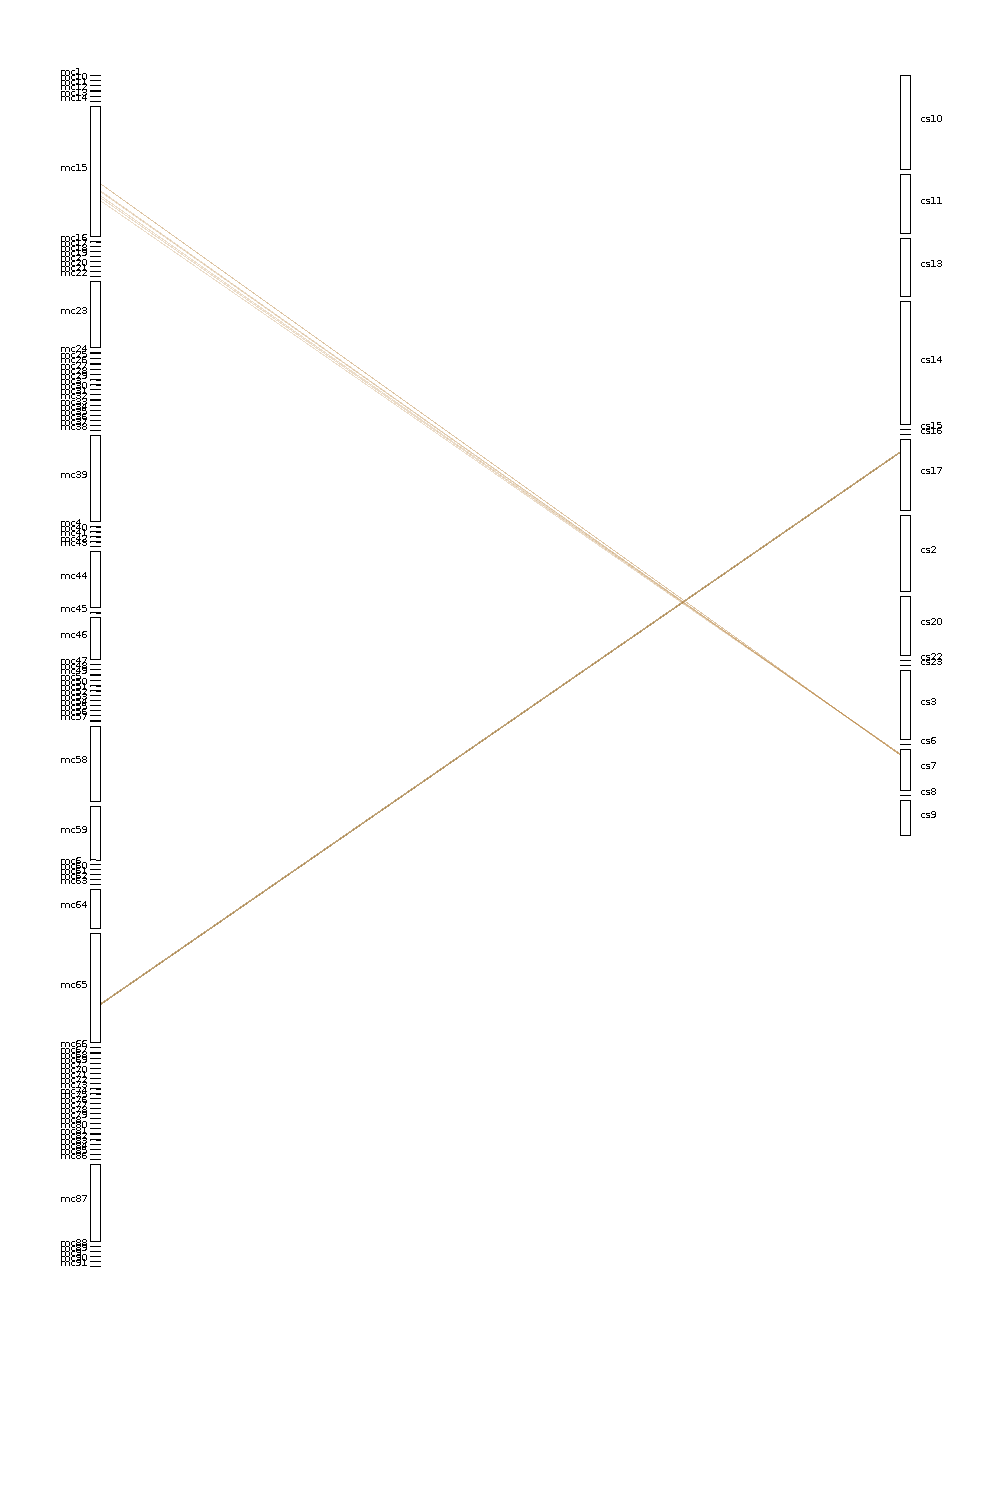
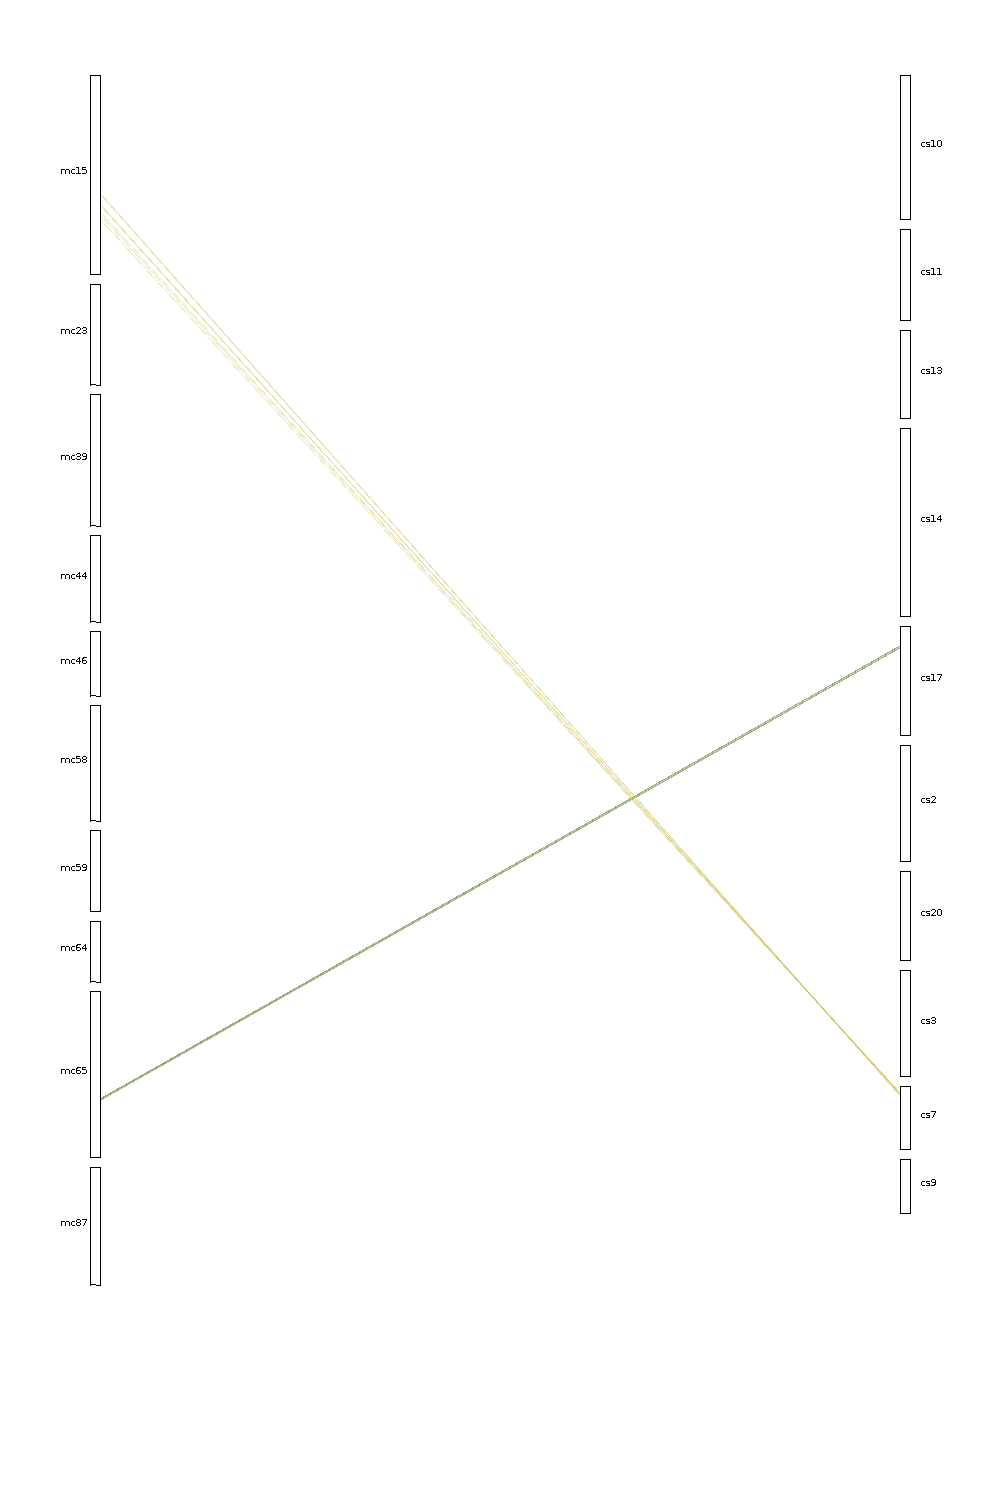
update plots

diff --git a/README.md b/README.md
@@ -63,20 +63,17 @@ I want to look at groups of sister-species to take into account the evolutionary
 * **Bruchids**
   * *C. maculatus:* from Kaufmann et al.: 
     ```python
-    { X : ['utg 000385l_1','utg 000006l_1','utg 000025l_1','utg 000027l_1']
-      Y : []}
+    { X : ['utg000057l_1','utg000114l_1','utg000139l_1','utg000191l_1','utg000326l_1','utg000359l_1','utg000532l_1','utg000602l_1'],
+      Y : ['utg000322l_1','utg 000312c_1','utg 000610l_1','utg 001235l_1']}
     ``` 
   
   * *C. chinensis:*
-  <details>
-  <summary>identified by me, but the assembly is very fragmented</summary>
+    identified by me, but the assembly is very fragmented so there is a lot of contigs.
 
     ```python
-    { X : ["1211_quiver","1844_quiver","854_quiver","5741_quiver","2866_quiver","658_quiver","1498_quiver","1455_quiver","2404_quiver","2935_quiver","1115_quiver","370_quiver","2273_quiver","1424_quiver","1865_quiver","767_quiver","2222_quiver","1525_quiver","5023_quiver","1925_quiver","1217_quiver","2328_quiver","2475_quiver","959_quiver","537_quiver","2776_quiver","325_quiver","2576_quiver","2336_quiver","988_quiver","2252_quiver","1388_quiver","1508_quiver","1712_quiver","1260_quiver","977_quiver","2202_quiver","2223_quiver","2397_quiver","693_quiver","1092_quiver","2189_quiver","1958_quiver","1355_quiver","2241_quiver","849_quiver","703_quiver","277_quiver","518_quiver","2589_quiver","1326_quiver","2962_quiver","2341_quiver","358_quiver","462_quiver","2786_quiver","1116_quiver","525_quiver","1358_quiver","5693_quiver","1429_quiver","1253_quiver","2372_quiver","326_quiver","474_quiver","777_quiver","955_quiver","1852_quiver","718_quiver","1024_quiver","1974_quiver","2295_quiver","2356_quiver","1484_quiver","1503_quiver","3076_quiver","2091_quiver","1262_quiver","1109_quiver","1475_quiver","1695_quiver","1168_quiver","1386_quiver","2201_quiver","2320_quiver","1117_quiver","769_quiver","2050_quiver","1805_quiver","2692_quiver","411_quiver","851_quiver","5703_quiver","1585_quiver","824_quiver","1816_quiver","1370_quiver","2416_quiver","1814_quiver","1277_quiver","619_quiver","1750_quiver","2709_quiver","2664_quiver","1250_quiver","971_quiver","3020_quiver","310_quiver","1176_quiver","2510_quiver","1699_quiver","1256_quiver","1420_quiver","5727_quiver","413_quiver","1124_quiver","682_quiver","1000_quiver","1313_quiver","5708_quiver","1556_quiver","274_quiver","1787_quiver","1137_quiver","360_quiver","1469_quiver","1853_quiver","2380_quiver","1239_quiver","993_quiver","791_quiver","2540_quiver","1510_quiver","868_quiver","505_quiver","1212_quiver","376_quiver","1564_quiver","1836_quiver","1670_quiver","500_quiver","2099_quiver","353_quiver","1042_quiver","419_quiver","1314_quiver","1339_quiver","1470_quiver","1576_quiver","1717_quiver","5692_quiver","2157_quiver","700_quiver","1284_quiver","1694_quiver","2306_quiver","2712_quiver","182_quiver","1973_quiver","882_quiver","2363_quiver","2482_quiver","1640_quiver","1913_quiver","2323_quiver","1240_quiver","161_quiver","1649_quiver","1164_quiver","1054_quiver","1096_quiver","313_quiver","1815_quiver","1831_quiver","1349_quiver","151_quiver","1478_quiver","1523_quiver","1888_quiver","739_quiver","1322_quiver","2338_quiver","1798_quiver","1391_quiver","1530_quiver","1519_quiver","1651_quiver","1105_quiver","509_quiver","1308_quiver","1833_quiver","1914_quiver","1741_quiver","1080_quiver","2292_quiver","2364_quiver","643_quiver","5745_quiver","1920_quiver","1725_quiver","125_quiver","1086_quiver","2552_quiver","5749_quiver","2120_quiver","2964_quiver","5722_quiver","2045_quiver","2422_quiver","593_quiver","1496_quiver","1772_quiver","799_quiver","2690_quiver","414_quiver","1531_quiver","1443_quiver","1408_quiver","1688_quiver","1371_quiver","1501_quiver","3090_quiver","1025_quiver","5698_quiver","347_quiver","1435_quiver","476_quiver","1883_quiver","2820_quiver","5728_quiver","342_quiver","1972_quiver","1826_quiver","968_quiver","2037_quiver","1723_quiver","252_quiver","1863_quiver","2983_quiver","1947_quiver","1430_quiver","1612_quiver","1701_quiver","839_quiver","613_quiver","1979_quiver","1584_quiver","2024_quiver","1486_quiver","1097_quiver"]
-      Y : []}
-    ``` 
-  </details>
-
+    { X : ["1092_quiver","1124_quiver","1080_quiver","1105_quiver","1148_quiver","1339_quiver","1435_quiver","1482_quiver","1501_quiver","1565_quiver","1694_quiver","1688_quiver","1758_quiver","1618_quiver","1786_quiver","1816_quiver","1815_quiver","1817_quiver","1826_quiver","1889_quiver","1898_quiver","1908_quiver","1911_quiver","1933_quiver","2046_quiver","2054_quiver","2056_quiver","5713_quiver","2194_quiver","2226_quiver","2306_quiver","2357_quiver","2381_quiver","2392_quiver","2400_quiver","2435_quiver","2453_quiver","2513_quiver","2524_quiver","2569_quiver","2576_quiver","2580_quiver","2599_quiver","2693_quiver","2733_quiver","1210_quiver","2935_quiver","2958_quiver","2964_quiver","3034_quiver","3068_quiver","3080_quiver","3091_quiver"],
+      Y : ["850_quiver","949_quiver","1088_quiver","1125_quiver","1159_quiver","1134_quiver","1224_quiver","1369_quiver","1410_quiver","1568_quiver","1577_quiver","1619_quiver","1634_quiver","1646_quiver","1652_quiver","1665_quiver","1681_quiver","1697_quiver","1722_quiver","1766_quiver","1783_quiver","1891_quiver","1937_quiver","1963_quiver","1790_quiver","1997_quiver","2073_quiver","2113_quiver","2163_quiver","2166_quiver","5705_quiver","2245_quiver","2259_quiver","2260_quiver","2334_quiver","2340_quiver","2382_quiver","2443_quiver","2511_quiver","2534_quiver","2573_quiver","2597_quiver","2651_quiver","2707_quiver","2766_quiver","2773_quiver","2791_quiver","2830_quiver","2875_quiver","3022_quiver","3070_quiver","3074_quiver","3075_quiver","3078_quiver"]}
+    ```
   * *B. siliquastri* identified by the DTOL project with the assembly
     ```python
     { X : ['X']
@@ -84,7 +81,7 @@ I want to look at groups of sister-species to take into account the evolutionary
     ``` 
   * *A. obtectus* Identified by me and Göran's project about it
     ```python
-    { X : ["HiC_scaffold_10", 'scaffold_21'] # double check assembly versions for correct scaffold names, i also have 'Chr_10' as a name
+    { X : ['CAVLJG010000002.1']# ["HiC_scaffold_10", 'scaffold_21'] # double check assembly versions for correct scaffold names, i also have 'Chr_10' as a name
       Y : ['scaffold_13', 'scaffold_86']} # some have HiC and some don't but that may just be manual renaming of the largest to chromosomes
     ``` 
 * **Cochinella**
